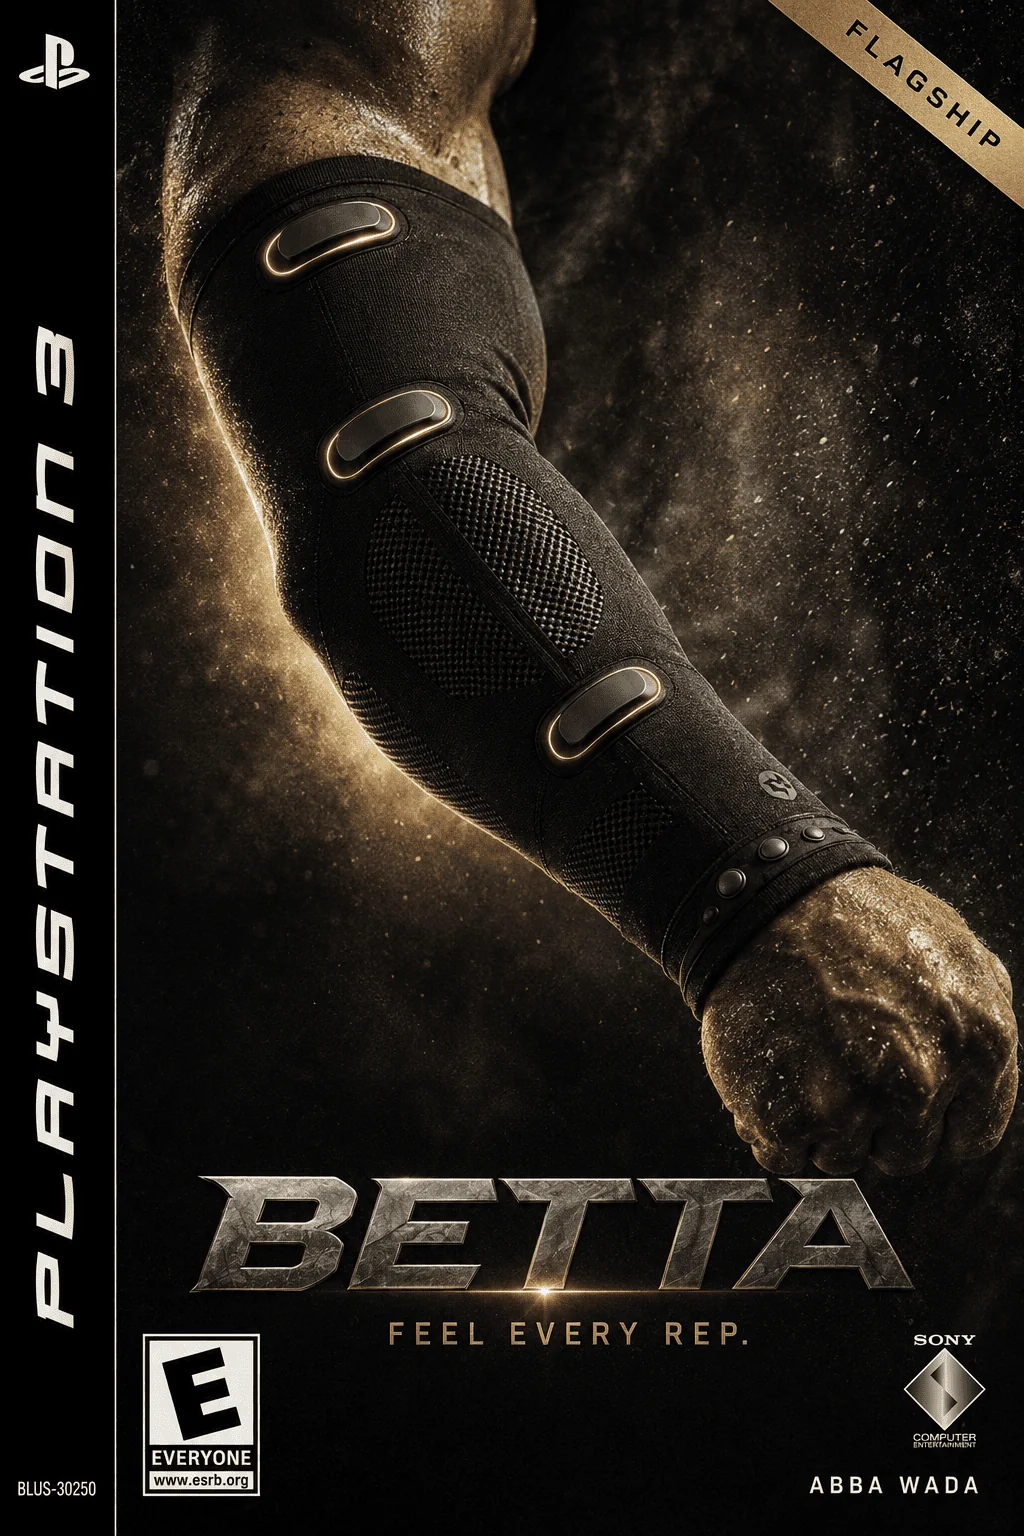
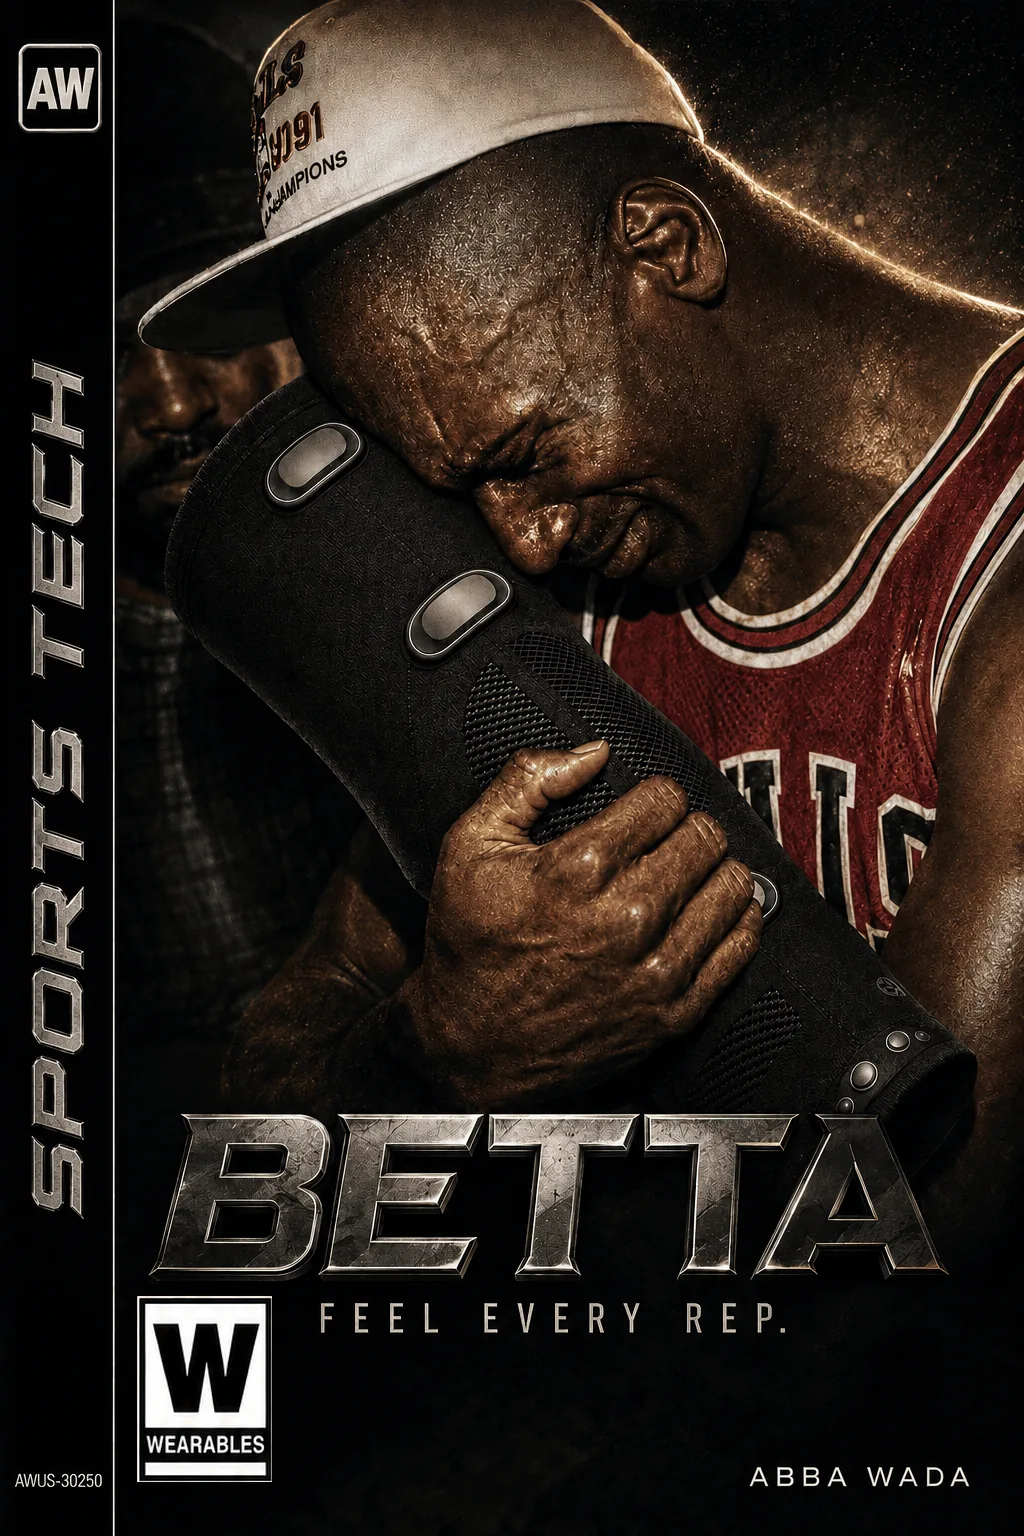
Ship the de-branded cover set with Jordan Betta; spine-only chrome; Featured Project
Covers replaced with Abba's approved regen (Jordan SPORTS TECH variant as
Betta, with a W/WEARABLES rating box transplanted in-image over the baked
B/SPORTS TECH one). Vector chrome trimmed to the spine, which fully covers
every baked spine band (measured 98 to 122px against the 126px overlay),
hiding the SIDEVEST typo and monogram glitches. Rating boxes and author
lines ship baked in the art. Flagship Project copy becomes Featured Project
on index and betta per the flagship ban. TODO(review) markers cleared as
shipped. Pre-ship audit: watermark sweep of all four corners of all seven
covers clean, links and assets clean, copy sweep clean.

diff --git a/projects.html b/projects.html
@@ -88,9 +88,11 @@
             quests: '<svg viewBox="0 0 28 28" fill="none" stroke="currentColor" stroke-width="1.5" aria-hidden="true"><path d="M14 4 L22 14 L14 24 L6 14 Z"></path><path d="M21 4.5 L22.2 7 L24.7 8.2 L22.2 9.4 L21 12 L19.8 9.4 L17.3 8.2 L19.8 7 Z" fill="currentColor" stroke="none"></path></svg>'
         };
 
-        /* Case chrome: vector spine, rating and author mounted over the art per
-           the Design chrome SPEC (600 by 900 grid, spine 12%, rating 15%).
-           All text is live SVG text; flat build, page grain supplies texture. */
+        /* Case chrome: vector spine mounted over the art per the Design chrome
+           SPEC (600 by 900 grid, spine 12%). The opaque spine guarantees a
+           correct monogram, category and serial over whatever the art bakes
+           into that band. Rating boxes and the author line ship baked in the
+           cover art. All text is live SVG text; page grain supplies texture. */
         var CHROME_MONO = '<g transform="translate(16 22) scale(0.4167)" fill="none" stroke="#FFFFFF" stroke-width="5" stroke-linecap="round" stroke-linejoin="round"><rect x="10.5" y="10.5" width="75" height="75" rx="17"></rect><path d="M23 61 L32 35 L41 61"></path><path d="M26.5 52.5 L37.5 52.5"></path><path d="M46 35 L52.5 61 L59 40 L65.5 61 L72 35"></path></g>';
 
         function chromeLabel(cat) {
@@ -99,22 +101,12 @@
 
         function chromeSVG(c) {
             var label = chromeLabel(c.cat);
-            var letter = label.charAt(0);
-            var wordSize = label === 'WEARABLES' ? 12 : (label === 'SIDE QUEST' ? 11.5 : 13);
-            var wordSpace = label === 'WEARABLES' ? 1.5 : (label === 'SIDE QUEST' ? 1.4 : 1.8);
             return '<svg class="case-chrome" viewBox="0 0 600 900" aria-hidden="true" focusable="false">' +
                 '<rect width="72" height="900" fill="' + (c.spineColor || '#141414') + '"></rect>' +
                 '<line x1="71.25" y1="0" x2="71.25" y2="900" stroke="#FFFFFF" stroke-opacity="0.14" stroke-width="1.5"></line>' +
                 CHROME_MONO +
                 '<text transform="translate(36 108) rotate(90)" dominant-baseline="central" font-family="&#39;Chakra Petch&#39;,sans-serif" font-weight="600" font-style="italic" font-size="30" letter-spacing="10.2" fill="#FFFFFF">' + label + '</text>' +
                 '<text x="36" y="882" text-anchor="middle" font-family="&#39;Schibsted Grotesk&#39;,sans-serif" font-weight="600" font-size="9" letter-spacing="0.2" fill="#FFFFFF" fill-opacity="0.8">' + c.serial + '</text>' +
-                '<g transform="translate(84 771) scale(0.75)">' +
-                  '<rect x="2.5" y="2.5" width="115" height="151" fill="#FFFFFF" stroke="#141414" stroke-width="5"></rect>' +
-                  '<text x="60" y="87" text-anchor="middle" font-family="&#39;Chakra Petch&#39;,sans-serif" font-weight="700" font-size="78" fill="#141414">' + letter + '</text>' +
-                  '<line x1="5" y1="113" x2="115" y2="113" stroke="#141414" stroke-width="3"></line>' +
-                  '<text x="60" y="131" text-anchor="middle" dominant-baseline="central" font-family="&#39;Chakra Petch&#39;,sans-serif" font-weight="600" font-size="' + wordSize + '" letter-spacing="' + wordSpace + '" fill="#141414">' + label + '</text>' +
-                '</g>' +
-                '<text x="568" y="870" text-anchor="end" font-family="&#39;Schibsted Grotesk&#39;,sans-serif" font-weight="600" font-size="17" letter-spacing="6.8" fill="#FFFFFF">ABBA WADA</text>' +
                 '</svg>';
         }
 
@@ -122,7 +114,6 @@
         var CASES = [
             { id: 'betta', cat: 'Wearables', title: 'Betta', serial: 'AWUS-30250', dom: '#27211b',
               line: 'The shooting sleeve that learns the shot only you take.',
-              /* TODO(review): back-of-box voice drafted from the frozen Betta copy; facts real, phrasing new. */
               blurb: 'Your shot has a signature. Betta learns it. Dual IMUs at the elbow and wrist read every rep 100 times a second, and the moment one drifts, a tap on the wrist calls the correction.',
               shots: [
                   { src: 'images/betta_poster_prototype.jpg', w: 720, h: 1280, alt: 'Betta prototype electronics test' },
@@ -133,43 +124,36 @@
               links: [['VIEW FULL CASE STUDY', 'betta.html'], ['BETTA.LIVE', 'https://betta.live']] },
             { id: 'posture-cue', cat: 'Wearables', title: 'Posture Cue', serial: 'AWUS-30311', dom: '#78625a',
               line: 'Wearable that tracks spinal alignment and cues you upright when you slouch.',
-              /* TODO(review): voice invented; the tracking and cueing facts are the real card copy. */
               blurb: 'Your spine keeps the score. Posture Cue tracks your alignment through the whole day and cues you upright the second you slouch.',
               shots: [{ src: 'images/Posture_Cue_Thumbnail.jpg', w: 1382, h: 1450, alt: 'Posture Cue prototype held up' }],
               bullets: ['SENSORS', 'WEARABLE TECH', 'EMBEDDED SYSTEMS'],
               links: [['WATCH ON YOUTUBE', 'https://www.youtube.com/watch?v=Hr_AOARKWCw']] },
             { id: 'visual-mapping', cat: 'Robotics', title: 'Visual Mapping for Autonomous Robots', serial: 'AWUS-30342', dom: '#1c1f19',
               line: 'Simulation software for autonomous mobile robots to optimize routes and prevent factory congestion.',
-              /* TODO(review): the five robots and eighteen shelves flavor comes from the cover art HUD, not the repo copy. */
               blurb: 'Five robots. Eighteen shelves. One quiet night shift. Plan the routes, dodge the pileups, and keep the warehouse floor moving until morning.',
               shots: [{ src: 'images/Visual_Mapping_Robot.jpg', w: 1064, h: 1044, alt: 'Warehouse simulation screen' }],
               bullets: ['ROBOTICS', 'SIMULATION', 'PATH PLANNING', 'COLLISION AVOIDANCE'],
               links: [['GITHUB', 'https://github.com/abbawada/Robot-Facility'], ['WATCH ON YOUTUBE', 'https://www.youtube.com/watch?v=rWP7KaduHdg']] },
             { id: 'bluetooth-car', cat: 'Robotics', title: 'Bluetooth Car', serial: 'AWUS-30188', dom: '#693e29', spineColor: '#A31621',
               line: 'Bluetooth-controlled robot car.',
-              /* TODO(review): voice invented; the phone pairing and breadboard build are real. */
               blurb: 'Strip the shell, keep the wires. Pair your phone, drop the hammer, and drive the breadboard like you built it. Because you did.',
               shots: [{ src: 'images/Bluetooth_Car.jpg', w: 1162, h: 998, alt: 'Breadboard robot car' }],
               bullets: ['BLUETOOTH', 'MOTOR DRIVERS', 'MICROCONTROLLER'],
               links: [['WATCH ON YOUTUBE', 'https://www.youtube.com/watch?v=rMxsd21XIwQ']] },
             { id: 'home-temp-monitor', cat: 'IoT', title: 'Home Temperature Monitor', serial: 'AWUS-30129', dom: '#77655b',
               line: 'IoT unit that logs temperature and humidity in real time.',
-              /* TODO(review): voice invented; the logging facts are the real card copy. */
               blurb: 'Every degree on record. The little red unit on the shelf logs temperature and humidity around the clock and never asks for a day off.',
               shots: [{ src: 'images/Home_monitor.jpg', w: 1186, h: 1048, alt: 'Temperature monitor display' }],
               bullets: ['SENSORS', 'IOT', 'DATA LOGGING'],
-              /* TODO(review): no external demo exists; this links the local demo video file. */
               links: [['WATCH THE DEMO', 'videos/Temp_Home_Monitor.mp4']] },
             { id: 'yield-vaults', cat: 'Side Quests', title: 'Plume Token Yield Vaults', serial: 'AWUS-30366', dom: '#2d2315',
               line: 'A yield vault design with its own risk rating system',
-              /* TODO(review): first sentence invented; the rest is the real project copy. */
               blurb: 'Behind this door, yield. A vault design for Plume native tokens with its own risk rating system and an allocation formula tuned for higher native yield.',
               shots: [],
               bullets: ['FINANCIAL MODELING', 'RISK MANAGEMENT', 'TOKENOMICS', 'PYTHON'],
               links: [['VIEW PROJECT DOCUMENT', 'https://1drv.ms/x/c/933edcbe437d6d8e/IQCObX1Dvtw-IICT8QAAAAAAAZDvoEZcrmQfKaM4GBRI_Q0']] },
             { id: 'ethereum-validators', cat: 'Side Quests', title: 'Ethereum Validators', serial: 'AWUS-30402', dom: '#171716',
               line: 'An incentive design that pushes Ethereum toward more validators',
-              /* TODO(review): first sentence invented; the incentive design line is the real copy. */
               blurb: 'The network is only as strong as its validators. An incentive design that pushes Ethereum toward more of them.',
               shots: [],
               bullets: ['ETHEREUM', 'STAKING', 'INFRASTRUCTURE'],

diff --git a/betta.html b/betta.html
@@ -29,7 +29,7 @@
     <main class="shell">
         <section class="betta-header">
             <img src="images/betta_crest_gold.png" alt="Betta crest" class="betta-crest" width="320" height="285" decoding="async">
-            <p class="betta-kicker">Flagship Project</p>
+            <p class="betta-kicker">Featured Project</p>
             <h1 class="betta-title">Betta</h1>
             <p class="betta-tagline">The shooting sleeve that learns the shot only you take, then helps you repeat it.</p>
             <p class="betta-lede">I'm building Betta, a haptic shooting sleeve for basketball. Dual IMUs at the elbow and wrist collect 100 readings per second. The sleeve learns your shot signature, then uses directional vibration when a rep drifts from it.</p>

diff --git a/index.html b/index.html
@@ -33,7 +33,7 @@
         <div class="channels-zone">
             <div class="channels" id="channels" aria-label="Browse">
                 <article class="panel wide">
-                    <p class="p-eyebrow">Flagship Project</p>
+                    <p class="p-eyebrow">Featured Project</p>
                     <a class="featured-media" href="betta.html" aria-label="Betta case study">
                         <img src="images/betta_hero_court_1x.jpg" srcset="images/betta_hero_court_1x.jpg 1x, images/betta_hero_court.jpg 2x" alt="The Betta sleeve on a hardwood court" width="836" height="470" decoding="async">
                     </a>

diff --git a/tools/cover-prompts.md b/tools/cover-prompts.md
@@ -1,54 +1,37 @@
 # Game-cover art prompts (paste into ChatGPT, one per project)
 
-Updated for the vector-chrome build: the spine band, serial, rating box, AW
-monogram and author name are now mounted in code over the art, so the art must
-not contain them. Attach the project's real photo to each prompt so the art is
-grounded in it. After generating, check all four corners for watermarks before
-sending to me.
+The shipped covers (2026-08-16 set) bake the chrome into the art: spine band
+with monogram, category and serial; rating box bottom left; ABBA WADA bottom
+right; title lettering. The site mounts a vector spine over the left band at
+render time (chromeSVG in projects.html), so spine flaws in the art are
+hidden, but rating box, author line and title must be generated correctly.
+Two covers remain. Attach the project's real photo or footage still so the
+art is grounded in it. After generating, check all four corners for
+watermarks before sending to me. Never use FLAGSHIP anywhere.
 
-## Master prompt (prepend to every project line)
+## Master prompt (prepend to each)
 
 Create video-game box cover art, PlayStation-3-era in spirit but with NO
-console branding, NO logos, NO wordmarks, NO rating marks, NO serial numbers,
-NO monograms, and NO author or studio name. The ONLY text permitted is the
-project title as the hero type treatment; every other mark is overlaid in code
-later. Portrait 2:3, 1024x1536. Painterly photographic realism, dramatic
-single-source lighting, restrained palette built around warm paper (#f7f5f0),
-ink black (#141414), and one gold accent (#c6a15b). Keep the leftmost 12% of
-the frame quiet and dark (a printed spine band overlays it). Keep the bottom
-20% calm (badges overlay both bottom corners). One clear hero subject, centered
-or right-of-center, cinematic depth, no clutter, no borders, no frames, no
-watermark.
+console branding, NO third-party logos, and NO rating-board marks. Portrait
+2:3, 1024x1536. Painterly photographic realism, dramatic single-source
+lighting, restrained palette built around warm paper (#f7f5f0), ink black
+(#141414), and one gold accent (#c6a15b). Left edge: a flat black vertical
+spine band, 12% of the width, carrying a small white square monogram reading
+"AW" at top, the category word reading top to bottom in white italic caps,
+and the serial in small white print at the bottom. Bottom left of the art
+area: a white rectangular rating box, black border, a large black letter "S"
+over a rule and the word "SIDE QUEST" beneath it. Bottom right: "ABBA WADA"
+in small white letterspaced caps. One clear hero subject, centered or
+right-of-center, cinematic depth, no clutter, no borders, no watermark.
 
 ## Per project (append one)
 
-1. Betta, title lettering "BETTA" with tagline "FEEL EVERY REP.": the attached
-   black haptic shooting sleeve as the hero object, floating over a dark
-   hardwood court at night, one gym light behind it, faint gold stitching glow.
-   Moody, reverent, championship air. No people.
-2. Posture Cue, title lettering "POSTURE CUE": the attached wearable posture
-   device, worn on an upper back seen from behind at three-quarter angle, spine
-   line subtly highlighted in gold, soft studio dark background.
-3. Visual Mapping for Autonomous Robots, title lettering "VISUAL MAPPING" with
-   subline "FOR AUTONOMOUS ROBOTS": a top-down warehouse floor at night
-   rendered as glowing route lines weaving between dark shelving blocks, one
-   small robot as the hero, gold path tracing its route.
-4. Bluetooth Car, title lettering "BLUETOOTH CAR": the attached breadboard
-   robot car on dark asphalt, headlight beam forward, motion dust behind the
-   wheels, hobbyist-hero scale.
-5. Home Temperature Monitor, title lettering "HOME TEMPERATURE MONITOR": the
-   attached small red-PCB display unit glowing teal in a dark cozy room shelf
-   corner, air rendered as faint thermal gradient waves.
-6. Plume Token Yield Vaults, title lettering "PLUME TOKEN YIELD VAULTS": a
-   heavy vault door slightly ajar in warm gold dark metal, thin light spilling
-   out, abstract feather motif etched into the door.
-7. Ethereum Validators, title lettering "ETHEREUM VALIDATORS": a dark field of
-   identical glowing octahedron crystals in ranks receding to the horizon, one
-   standing taller, cold light with one gold rim light.
-8. Wheelchair Basketball, title lettering "WHEELCHAIR BASKETBALL": the attached
-   gym photo recomposed as box art, one player mid-shot as the hero, motion
-   blur on the wheels, warm gym light, crowd dissolved into darkness. Keep
-   faces generic, no jersey logos.
-9. The Medici Network, title lettering "THE MEDICI NETWORK": a
-   renaissance-style marble hall at night with a long table of papers and one
-   lit banker's lamp, gold seal wax detail, engraved linework feel.
+8. Wheelchair Basketball, category SIDE QUEST, serial AWUS-30437, title
+   lettering "WHEELCHAIR BASKETBALL": the attached gym photo recomposed as
+   box art, one player mid-shot as the hero, motion blur on the wheels, warm
+   gym light, crowd dissolved into darkness. Keep faces generic, no jersey
+   logos.
+9. The Medici Network, category SIDE QUEST, serial AWUS-30475, title
+   lettering "THE MEDICI NETWORK": a renaissance-style marble hall at night
+   with a long table of papers and one lit banker's lamp, gold seal wax
+   detail, engraved linework feel.
